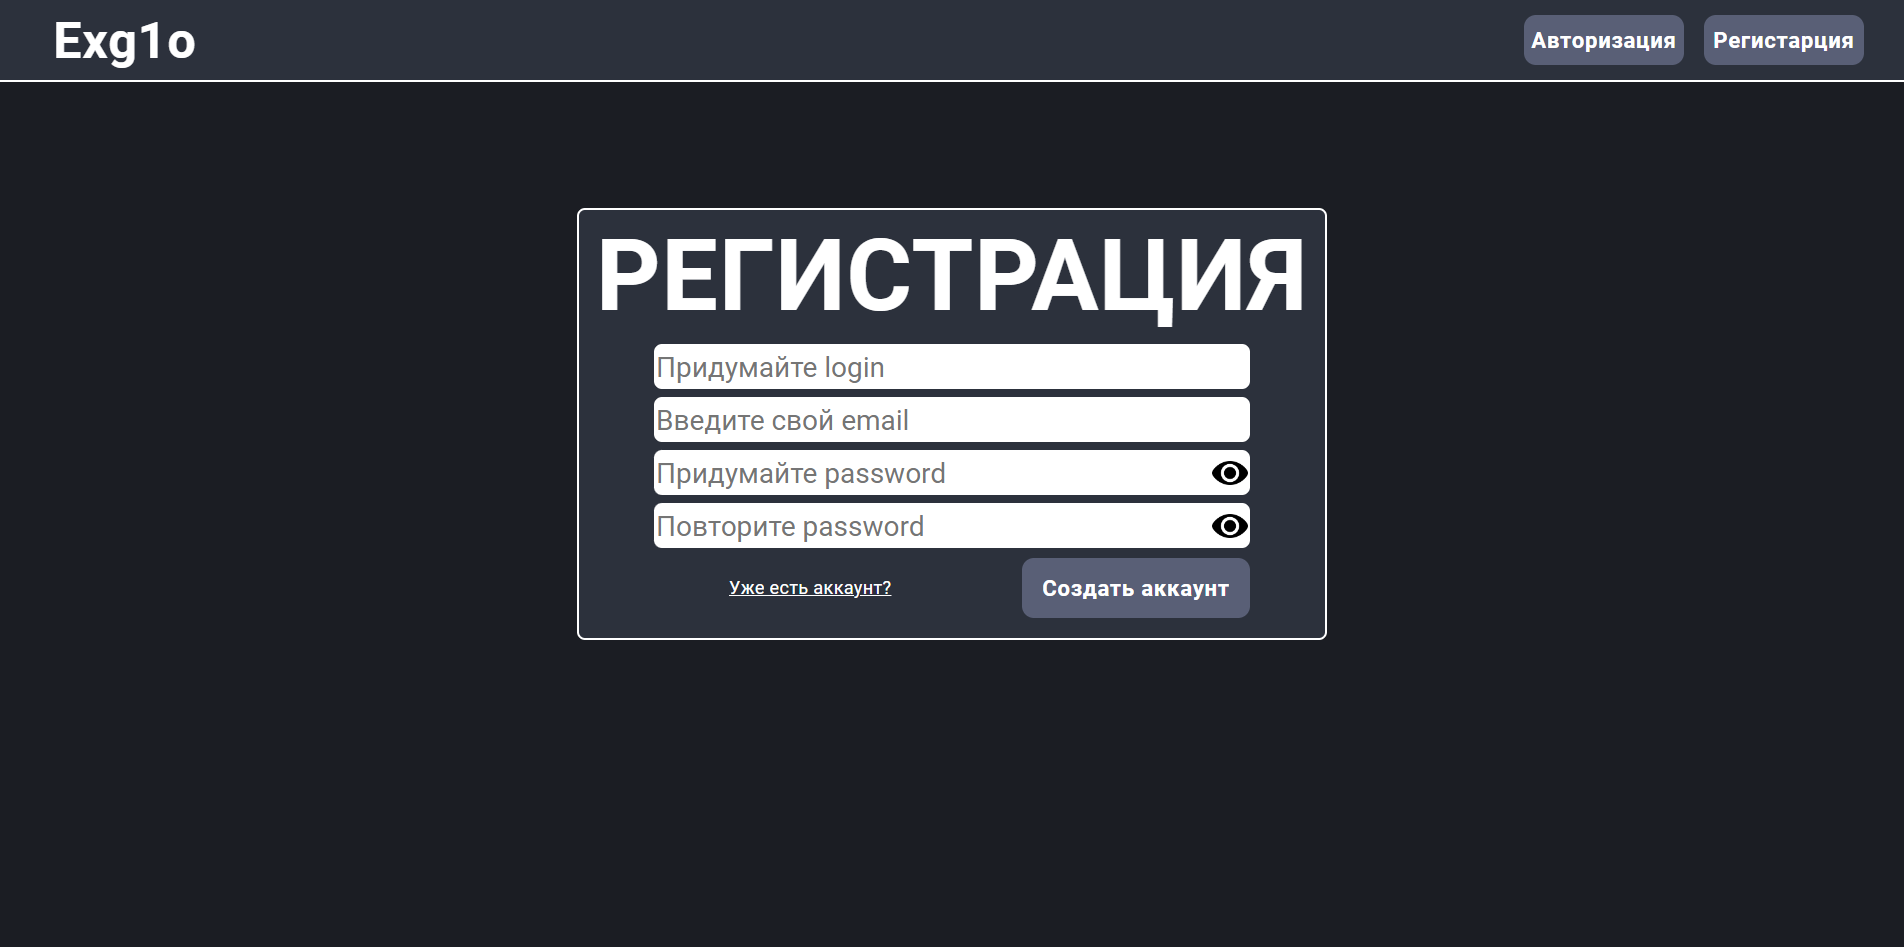
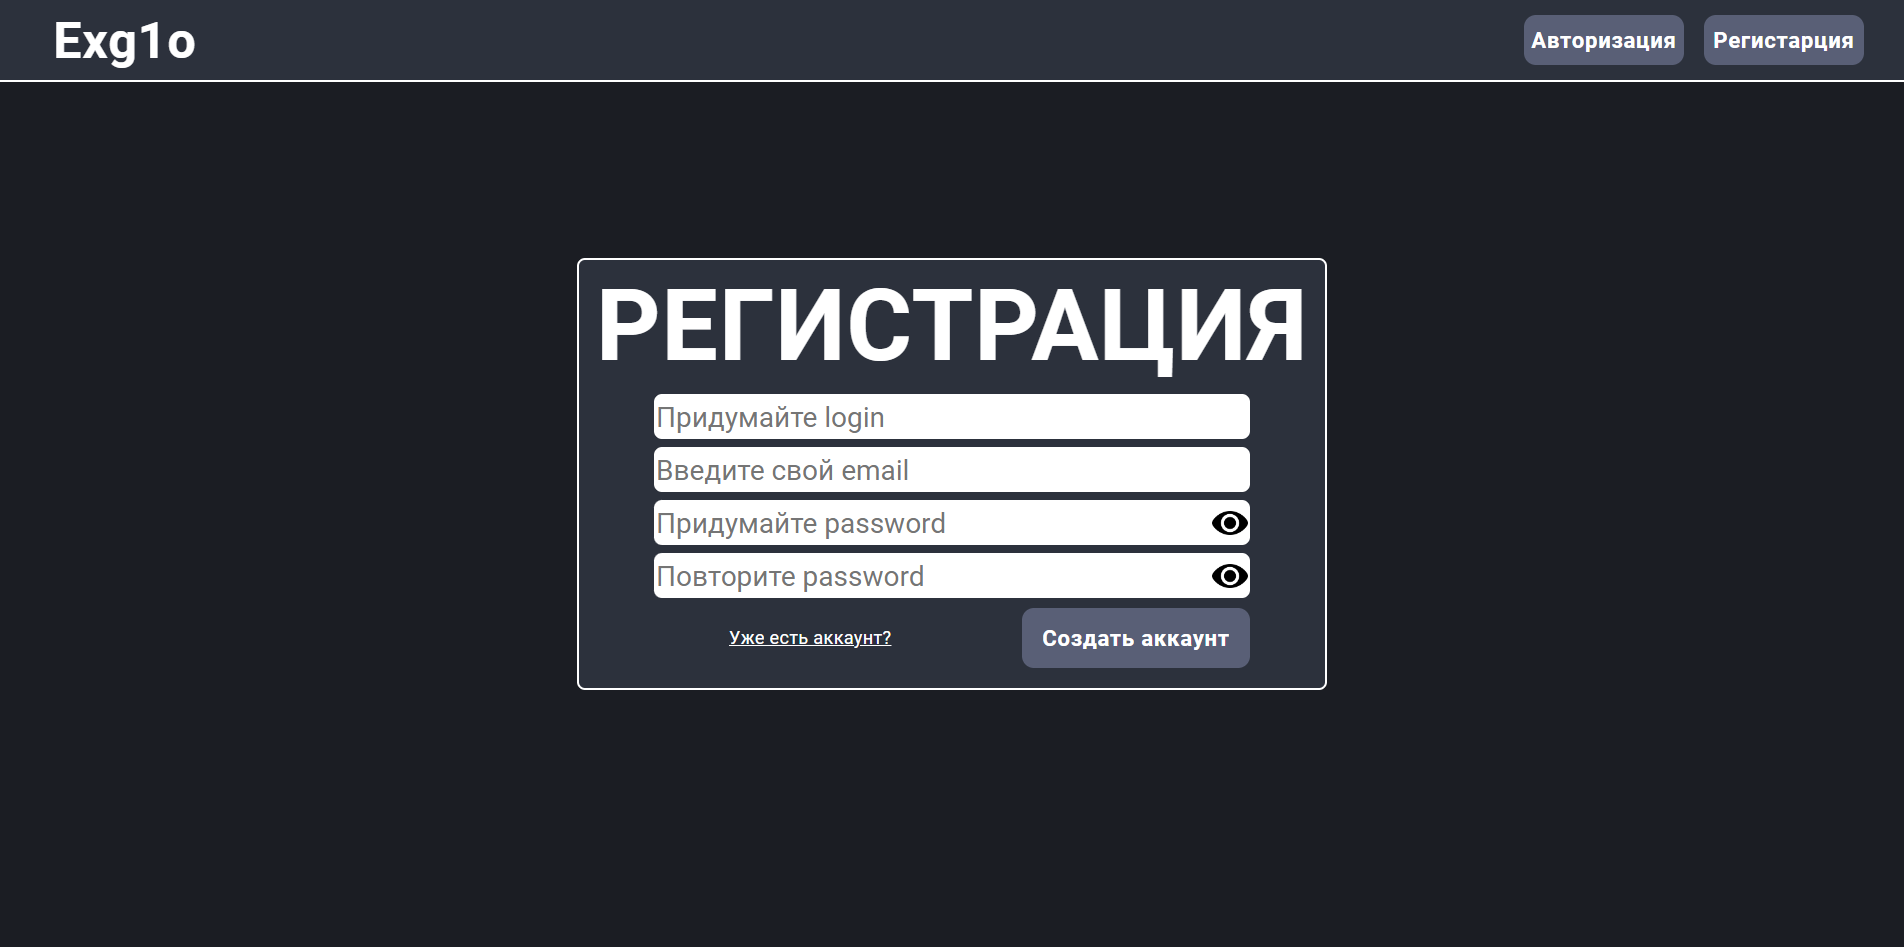
Maked adaptation for 1 page, fixed bugs

Changed region(s): [[0.2789, 0.2144, 0.7127, 0.735]]

diff --git a/exg1o/static/konstruktor/add_bot/add_bot.css b/exg1o/static/konstruktor/add_bot/add_bot.css
@@ -1,11 +1,7 @@
 /* ------------ Главные контейнеры ------------ */
 .container {
-	width: 620px;
-	height: 345px;
-
 	margin: auto;
 
-	top: 250px;
 	left: 0;
 	right: 0;
 	position: absolute;
@@ -19,28 +15,23 @@
 }
 
 /* ------------ Заголовок ------------ */
-.heading{
+.heading {
 	margin-top: 4px;
 	margin-bottom: 4px;
 
 	text-align: center;
 	font-weight: bold;
-	font-size: 60px;
 	letter-spacing: 1px;
 }
 
 /* ------------ Контейнер для основых элементов ------------ */
 .add-bot-form {
-	left: 50px;
-	right: 50px;
 	position: absolute;
 }
 
 /* ------------ Inputs ------------ */
 .bot-name-input-control,
 .bot-token-input-control {
-	height: 45px;
-
 	margin-top: 4px;
 	margin-bottom: 4px;
 
@@ -65,7 +56,6 @@
 
 .bot-token-button-control {
 	width: 40px;
-	height: 45px;
 
 	margin-top: 4px;
 	margin-bottom: 4px;
@@ -93,21 +83,16 @@
 
 /* ------------ Кнопки ------------ */
 .buttons {
-	top: 192px;
-	left: 50px;
-	right: 50px;
 	position: absolute;
 }
 
 .add-bot-button-control,
 .back-button-control {
 	width: 100%;
-	height: 60px;
 
 	margin-bottom: 8px;
 
 	font-weight: bold;
-	font-size: 24px;
 	letter-spacing: 0.8px;
 
 	border: 0;
@@ -126,4 +111,94 @@
 .add-bot-button-control:active,
 .back-button-control:active {
 	background-color: #434965;
+}
+
+@media (min-width: 320px) and (max-width: 767px) {
+	.container {
+		width: 300px;
+		height: 252px;
+
+		top: 250px;
+	}
+
+	.heading {
+		font-size: 28px;
+	}
+
+	.add-bot-form {
+		left: 15px;
+		right: 15px;
+	}
+
+	.bot-name-input-control,
+	.bot-token-input-control {
+		height: 38px;
+
+		font-size: 22px;
+	}
+
+	.bot-token-button-control {
+		height: 38px;
+	}
+
+	.buttons {
+		top: 140px;
+		left: 15px;
+		right: 15px;
+	}
+
+	.add-bot-button-control,
+	.back-button-control {
+		height: 45px;
+
+		font-size: 20px;
+	}
+}
+
+@media (min-width: 768px) {
+	.container {
+		width: 620px;
+		height: 345px;
+
+		top: 150px;
+	}
+
+	.heading {
+		font-size: 60px;
+	}
+
+	.add-bot-form {
+		left: 50px;
+		right: 50px;
+	}
+
+	.bot-name-input-control,
+	.bot-token-input-control {
+		height: 45px;
+
+		font-size: 28px;
+	}
+
+	.bot-token-button-control {
+		height: 45px;
+	}
+
+	.buttons {
+		top: 192px;
+		left: 50px;
+		right: 50px;
+	}
+
+	.add-bot-button-control,
+	.back-button-control {
+		height: 60px;
+
+		font-size: 24px;
+	}
+}
+
+@media (min-width: 1000px) {
+	.container {
+		top: 250px;
+	}
 }

diff --git a/exg1o/static/main/main.css b/exg1o/static/main/main.css
@@ -63,10 +63,6 @@
 }
 
 @media (min-width: 768px) {
-	.container {
-		top: 150px;
-	}
-
 	.heading {
 		font-size: 120px;
 	}
@@ -78,9 +74,10 @@
 
 @media (min-width: 768px) and (max-width: 999px) {
 	.container {
-		top: 150px;
 		left: 60px;
 		right: 60px;
+
+		top: 150px;
 	}
 }
 
@@ -90,7 +87,7 @@
 
 		margin: auto;
 
-		top: 175px;
+		top: 250px;
 		left: 0;
 		right: 0;
 	}
@@ -102,6 +99,7 @@
 
 		margin: auto;
 
+		top: 250px;
 		left: 0;
 		right: 0;
 	}

diff --git a/exg1o/static/authorization/authorization.css b/exg1o/static/authorization/authorization.css
@@ -116,7 +116,7 @@
 	.container {
 		height: 240px;
 
-		top: 225px;
+		top: 200px;
 		left: 10px;
 		right: 10px;
 	}
@@ -243,7 +243,7 @@
 
 		margin: auto;
 
-		top: 200px;
+		top: 250px;
 		left: 0;
 		right: 0;
 	}

diff --git a/exg1o/static/registration/registration.css b/exg1o/static/registration/registration.css
@@ -121,7 +121,7 @@
 	.container {
 		height: 332px;
 
-		top: 225px;
+		top: 200px;
 		left: 10px;
 		right: 10px;
 	}
@@ -252,7 +252,7 @@
 
 		margin: auto;
 
-		top: 200px;
+		top: 250px;
 		left: 0;
 		right: 0;
 	}

diff --git a/exg1o/static/main/mobile_main.css b/exg1o/static/main/mobile_main.css
@@ -1,5 +1,5 @@
 @media (min-width: 320px) and (max-width: 767px) {
 	.container {
-		top: 262px;
+		top: 250px;
 	}
 }
